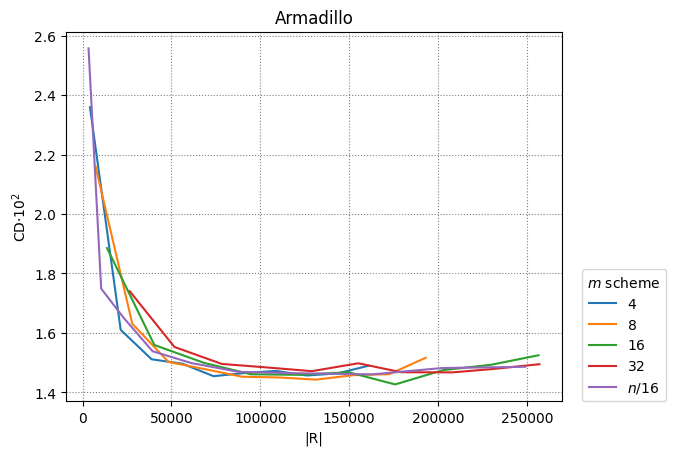
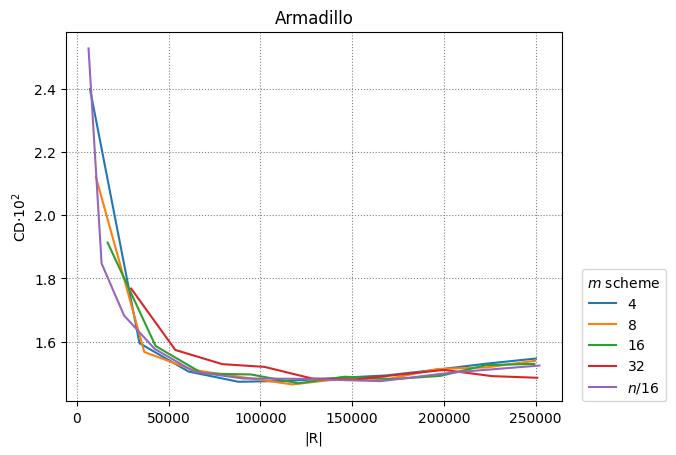
optimize targeted

diff --git a/ray_field/candidate_sphere.py b/ray_field/candidate_sphere.py
@@ -426,47 +426,64 @@ class CandidateSphere(Algorithm):
 
         return distances, R_values
     
-    def optimize_ray(model_name: CheckpointName, N_values: list[list[int]], M_values: list[str]) -> tuple[list[list[float]], list[list[int]]]:   
+    def optimize_ray(model_name: CheckpointName, length: int, M_values: list[str]) -> tuple[list[list[float]], list[list[int]]]:   
         model, device = utils.init_model(model_name)
 
-        distances = np.zeros((len(M_values), len(N_values[0])))
-        R_values = np.zeros((len(M_values), len(N_values[0])), dtype=int)
+        distances = np.zeros((len(M_values), length))
+        R_values = np.zeros((len(M_values), length), dtype=int)
 
         origins, dirs = utils.generate_sphere_rays_tensor(CandidateSphere.prescan_n, device)
         all_intersections, all_is_intersecting = CandidateSphere._broad_scan(model, origins, dirs)
         radii, centers = CandidateSphere._generate_candidate_spheres(all_intersections, all_is_intersecting)
+        rays_n = dirs.shape[0] * dirs.shape[2]
+        R_values.fill(rays_n)
 
-        R_values.fill(dirs.shape[0] * dirs.shape[2])
+        del all_intersections, all_is_intersecting
+        torch.cuda.empty_cache()
+        gc.collect()
 
         with torch.no_grad():
             for i in range(len(M_values)):
                 M = M_values[i]
 
-                for j in range(len(N_values[i])):
-                    N = N_values[i][j]
-                    print(f'M: {M}\tN: {N}', end='\t')
+                if M == 'n/16':
+                    N_end = 500
+                else:
+                    N_end = int((250000 - rays_n) / (int(M) * 16))
+                
+                N_values = np.linspace(50, N_end, length, dtype=int)
 
-                    origins, dirs = CandidateSphere._generate_candidate_rays(radii, centers, N, device, M)
-                    intersections, intersection_normals = CandidateSphere._targeted_scan(model, origins, dirs)
-            
-                    mesh = utils.poisson_surface_reconstruction(intersections, intersection_normals, CandidateSphere.poisson_depth)
-                    distance = utils.chamfer_distance_to_stanford(model_name, mesh, CandidateSphere.dist_samples)
+                for j in range(length):
+                    N = N_values[j]
+                    print(f'M: {M}\tN: {N}')
 
-                    distances[i][j] = distance
-                    R_values[i][j] = R_values[i][j] + dirs.shape[0] * dirs.shape[2]
+                    for k in range(CandidateSphere.chamfer_samples):
+                        origins, dirs = CandidateSphere._generate_candidate_rays(radii, centers, N, device, M)
+                        intersections, intersection_normals = CandidateSphere._targeted_scan(model, origins, dirs)
+                
+                        mesh = utils.poisson_surface_reconstruction(intersections, intersection_normals, CandidateSphere.poisson_depth)
+                        distance = utils.chamfer_distance_to_stanford(model_name, mesh, CandidateSphere.dist_samples)
+
+                        distances[i][j] = distances[i][j] + distance
+
+                        if k == 0:
+                            R_values[i][j] = R_values[i][j] + dirs.shape[0] * dirs.shape[2]
+
+                        del origins, dirs, intersections, intersection_normals, mesh
+                        torch.cuda.empty_cache()
+                        gc.collect()
                     
-                    print(f'{distance:.6f}')
-
-                    del origins, dirs, intersections, intersection_normals, mesh
                     torch.cuda.empty_cache()
                     gc.collect()
                 
                 torch.cuda.empty_cache()
                 gc.collect()
         
-        del all_intersections, all_is_intersecting, radii, centers, model
+        del radii, centers, model
         torch.cuda.empty_cache()
         gc.collect()
+
+        distances = distances / CandidateSphere.chamfer_samples
 
         return distances, R_values
     

diff --git a/ray_field/prescan_cone.py b/ray_field/prescan_cone.py
@@ -464,38 +464,49 @@ class PrescanCone(Algorithm):
 
         return distances, R_values
     
-    def optimize_ray(model_name: CheckpointName, N_values: list[list[int]], M_values: list[str]) -> tuple[list[list[float]], list[list[int]]]:   
+    def optimize_ray(model_name: CheckpointName, length: int, M_values: list[str]) -> tuple[list[list[float]], list[list[int]]]:   
         model, device = utils.init_model(model_name)
 
-        distances = np.zeros((len(M_values), len(N_values[0])))
-        R_values = np.zeros((len(M_values), len(N_values[0])), dtype=int)
+        distances = np.zeros((len(M_values), length))
+        R_values = np.zeros((len(M_values), length), dtype=int)
 
         origins, dirs = utils.generate_sphere_rays_tensor(PrescanCone.prescan_n, device)
         broad_intersections, broad_normals = PrescanCone._broad_scan(model, origins, dirs)
-
-        R_values.fill(dirs.shape[0] * dirs.shape[2])
+        rays_n = dirs.shape[0] * dirs.shape[2]
+        R_values.fill(rays_n)
 
         with torch.no_grad():
             for i in range(len(M_values)):
                 M = M_values[i]
 
-                for j in range(len(N_values[i])):
-                    N = N_values[i][j]
-                    print(f'M: {M}\tN: {N}', end='\t')
+                if M == 'n':
+                    N_end = 500
+                else:
+                    N_end = int((250000 - rays_n) / int(M))
+                
+                N_values = np.linspace(50, N_end, length, dtype=int)
 
-                    origins, dirs = PrescanCone._generate_cone_rays(broad_intersections, N, device, M)
-                    intersections, intersection_normals = PrescanCone._targeted_scan(model, origins, dirs)
-                    intersections, intersection_normals = PrescanCone._cat_and_move(intersections, intersection_normals, broad_intersections, broad_normals)
-            
-                    mesh = utils.poisson_surface_reconstruction(intersections, intersection_normals, PrescanCone.poisson_depth)
-                    distance = utils.chamfer_distance_to_stanford(model_name, mesh, PrescanCone.dist_samples)
+                for j in range(length):
+                    N = N_values[j]
+                    print(f'M: {M}\tN: {N}')
 
-                    distances[i][j] = distance
-                    R_values[i][j] = R_values[i][j] + dirs.shape[0] * dirs.shape[2]
+                    for k in range(PrescanCone.chamfer_samples):
+                        origins, dirs = PrescanCone._generate_cone_rays(broad_intersections, N, device, M)
+                        intersections, intersection_normals = PrescanCone._targeted_scan(model, origins, dirs)
+                        intersections, intersection_normals = PrescanCone._cat_and_move(intersections, intersection_normals, broad_intersections, broad_normals)
+                
+                        mesh = utils.poisson_surface_reconstruction(intersections, intersection_normals, PrescanCone.poisson_depth)
+                        distance = utils.chamfer_distance_to_stanford(model_name, mesh, PrescanCone.dist_samples)
+
+                        distances[i][j] = distances[i][j] + distance
+
+                        if k == 0:
+                            R_values[i][j] = R_values[i][j] + dirs.shape[0] * dirs.shape[2]
+
+                        del origins, dirs, intersections, intersection_normals, mesh
+                        torch.cuda.empty_cache()
+                        gc.collect()
                     
-                    print(f'{distance:.6f}')
-
-                    del origins, dirs, intersections, intersection_normals, mesh
                     torch.cuda.empty_cache()
                     gc.collect()
                 
@@ -505,6 +516,8 @@ class PrescanCone(Algorithm):
         del broad_intersections, broad_normals, model
         torch.cuda.empty_cache()
         gc.collect()
+
+        distances = distances / PrescanCone.chamfer_samples
 
         return distances, R_values
     

diff --git a/analysis/optimize_targeted.py b/analysis/optimize_targeted.py
@@ -14,16 +14,9 @@ matplotlib.use('Agg')
 DIR_PATH = 'analysis/data/optimize_targeted/'
 
 def compute_values(model_name: CheckpointName, algorithm: type[Algorithm]) -> tuple[list[str], list[list[int]], list[list[float]]]:
-    N_values = [
-        np.linspace(50, 2500, 10, dtype=int),
-        np.linspace(50, 1500, 10, dtype=int),
-        np.linspace(50, 1000, 10, dtype=int),
-        np.linspace(50, 500, 10, dtype=int),
-        np.linspace(50, 500, 10, dtype=int)
-        ]
     M_values = ['4', '8', '16', '32', 'n/16']
     
-    distances, R_values = algorithm.optimize_ray(model_name, N_values, M_values)
+    distances, R_values = algorithm.optimize_ray(model_name, 10, M_values)
 
     return M_values, R_values, distances
 
